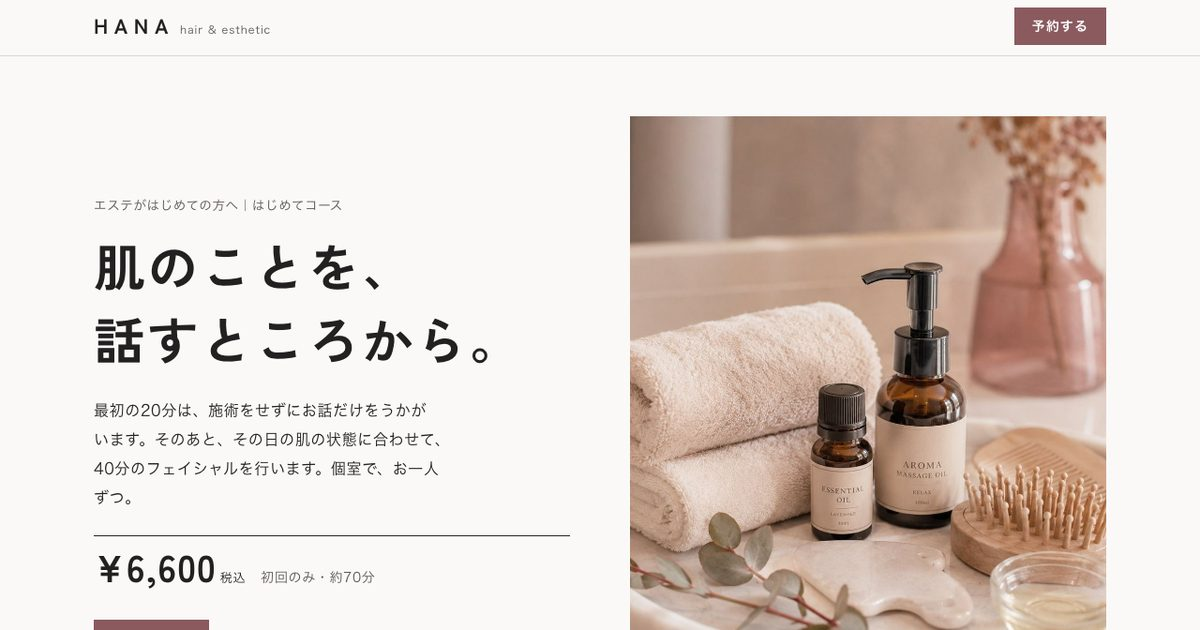
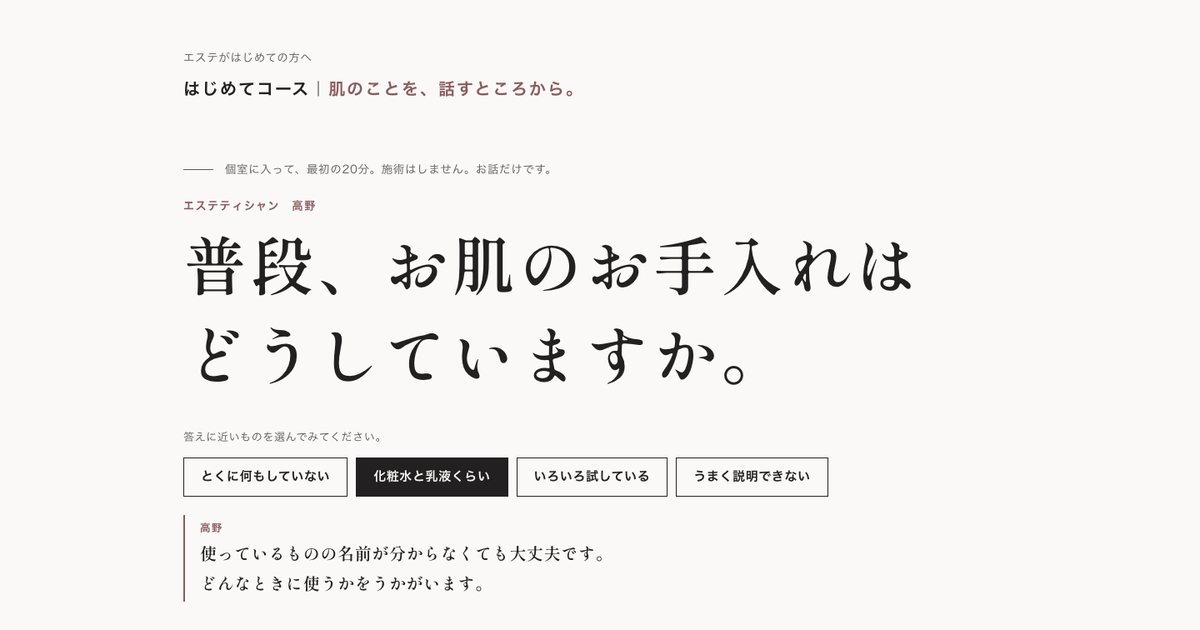
Add files via upload

diff --git a/samples/salon.html b/samples/salon.html
@@ -19,8 +19,9 @@
 <meta property="og:image:height" content="630">
 <meta property="og:locale" content="ja_JP">
 <meta name="twitter:card" content="summary_large_image">
-<!-- 2026-11-09 作り直し。生成元：HP制作/lp_salon.py（HPとCSSを共有） -->
-<link rel="preconnect" href="https://fonts.googleapis.com"><link rel="preconnect" href="https://fonts.gstatic.com" crossorigin><link rel="stylesheet" href="https://fonts.googleapis.com/css2?family=Shippori+Mincho+B1:wght@600;700&amp;display=swap&amp;text=%26%2C.0123456789%3A%3BAHNacehimprst%C2%A5%E3%80%81%E3%80%82%E3%80%9C%E3%81%82%E3%81%84%E3%81%8A%E3%81%8B%E3%81%8C%E3%81%8D%E3%81%8F%E3%81%93%E3%81%94%E3%81%95%E3%81%97%E3%81%98%E3%81%99%E3%81%9A%E3%81%9B%E3%81%9D%E3%81%9F%E3%81%A0%E3%81%A4%E3%81%A6%E3%81%A7%E3%81%A8%E3%81%AA%E3%81%AB%E3%81%AE%E3%81%AF%E3%81%BB%E3%81%BE%E3%81%BF%E3%82%81%E3%82%84%E3%82%88%E3%82%89%E3%82%8B%E3%82%8C%E3%82%8D%E3%82%92%E3%82%93%E3%82%A3%E3%82%A4%E3%82%A7%E3%82%A8%E3%82%B3%E3%82%B5%E3%82%B7%E3%82%B9%E3%83%86%E3%83%95%E3%83%A3%E3%83%AB%E3%83%AD%E3%83%B3%E3%83%BB%E3%83%BC%E4%B8%8D%E4%BA%88%E5%85%A5%E5%86%86%E5%88%86%E5%88%9D%E5%88%B8%E5%8C%96%E5%90%8C%E5%93%81%E5%95%86%E5%95%8F%E5%9B%9E%E5%A0%B1%E5%A0%B4%E5%AE%89%E5%AE%A2%E5%B0%91%E5%BD%93%E5%BE%97%E6%80%A5%E6%83%85%E6%84%8F%E6%89%8B%E6%8B%85%E6%95%B0%E6%96%99%E6%96%B9%E6%96%BD%E6%99%82%E6%9D%9F%E6%A7%98%E6%AC%A1%E7%9B%B8%E7%A8%8E%E7%B2%A7%E7%B4%84%E7%B4%8D%E8%82%8C%E8%8B%A6%E8%A1%93%E8%A9%B1%E8%AB%87%E8%B3%AA%E8%BE%BC%E9%87%8E%E9%87%91%E9%96%93%E9%AB%98%EF%BC%88%EF%BC%89" media="print" onload="this.media='all'"><noscript><link rel="stylesheet" href="https://fonts.googleapis.com/css2?family=Shippori+Mincho+B1:wght@600;700&amp;display=swap&amp;text=%26%2C.0123456789%3A%3BAHNacehimprst%C2%A5%E3%80%81%E3%80%82%E3%80%9C%E3%81%82%E3%81%84%E3%81%8A%E3%81%8B%E3%81%8C%E3%81%8D%E3%81%8F%E3%81%93%E3%81%94%E3%81%95%E3%81%97%E3%81%98%E3%81%99%E3%81%9A%E3%81%9B%E3%81%9D%E3%81%9F%E3%81%A0%E3%81%A4%E3%81%A6%E3%81%A7%E3%81%A8%E3%81%AA%E3%81%AB%E3%81%AE%E3%81%AF%E3%81%BB%E3%81%BE%E3%81%BF%E3%82%81%E3%82%84%E3%82%88%E3%82%89%E3%82%8B%E3%82%8C%E3%82%8D%E3%82%92%E3%82%93%E3%82%A3%E3%82%A4%E3%82%A7%E3%82%A8%E3%82%B3%E3%82%B5%E3%82%B7%E3%82%B9%E3%83%86%E3%83%95%E3%83%A3%E3%83%AB%E3%83%AD%E3%83%B3%E3%83%BB%E3%83%BC%E4%B8%8D%E4%BA%88%E5%85%A5%E5%86%86%E5%88%86%E5%88%9D%E5%88%B8%E5%8C%96%E5%90%8C%E5%93%81%E5%95%86%E5%95%8F%E5%9B%9E%E5%A0%B1%E5%A0%B4%E5%AE%89%E5%AE%A2%E5%B0%91%E5%BD%93%E5%BE%97%E6%80%A5%E6%83%85%E6%84%8F%E6%89%8B%E6%8B%85%E6%95%B0%E6%96%99%E6%96%B9%E6%96%BD%E6%99%82%E6%9D%9F%E6%A7%98%E6%AC%A1%E7%9B%B8%E7%A8%8E%E7%B2%A7%E7%B4%84%E7%B4%8D%E8%82%8C%E8%8B%A6%E8%A1%93%E8%A9%B1%E8%AB%87%E8%B3%AA%E8%BE%BC%E9%87%8E%E9%87%91%E9%96%93%E9%AB%98%EF%BC%88%EF%BC%89"></noscript>
+<!-- 2026-11-15 作り直し（案A 最初の20分を、ページで体験する）。生成元：HP制作/lp_salon.py・hana_lp_top.py（HPとCSSを共有） -->
+<link rel="preconnect" href="https://fonts.googleapis.com"><link rel="preconnect" href="https://fonts.gstatic.com" crossorigin><link rel="stylesheet" href="https://fonts.googleapis.com/css2?family=Shippori+Mincho+B1:wght@600;700&amp;display=swap&amp;text=%26%2C.0123456789%3A%3BAHNacehimprst%C2%A5%E3%80%81%E3%80%82%E3%80%9C%E3%81%82%E3%81%84%E3%81%86%E3%81%88%E3%81%8A%E3%81%8B%E3%81%8C%E3%81%8D%E3%81%8F%E3%81%91%E3%81%93%E3%81%94%E3%81%95%E3%81%97%E3%81%98%E3%81%99%E3%81%9B%E3%81%9D%E3%81%9F%E3%81%A0%E3%81%A3%E3%81%A4%E3%81%A6%E3%81%A7%E3%81%A8%E3%81%A9%E3%81%AA%E3%81%AB%E3%81%AD%E3%81%AE%E3%81%AF%E3%81%B0%E3%81%B5%E3%81%BE%E3%81%BF%E3%82%81%E3%82%82%E3%82%84%E3%82%88%E3%82%89%E3%82%8A%E3%82%8B%E3%82%8C%E3%82%8D%E3%82%8F%E3%82%92%E3%82%93%E3%82%A3%E3%82%A4%E3%82%A7%E3%82%A8%E3%82%AF%E3%82%B0%E3%82%B3%E3%82%B5%E3%82%B7%E3%82%B8%E3%82%B9%E3%83%83%E3%83%86%E3%83%91%E3%83%95%E3%83%9E%E3%83%A3%E3%83%AB%E3%83%AC%E3%83%AD%E3%83%B3%E3%83%BB%E3%83%BC%E4%B8%80%E4%B8%88%E4%B9%B3%E4%BA%88%E4%BB%8A%E4%BD%95%E4%BD%BF%E5%85%A5%E5%86%85%E5%86%86%E5%88%86%E5%89%8D%E5%8C%96%E5%90%88%E5%90%8D%E5%93%81%E5%95%8F%E5%A0%B1%E5%A4%A7%E5%A4%AB%E5%AD%90%E5%AE%85%E5%AE%B9%E5%BD%93%E5%BE%97%E6%83%85%E6%84%8F%E6%89%8B%E6%8B%85%E6%95%99%E6%96%99%E6%97%A5%E6%98%8E%E6%99%AE%E6%9C%80%E6%9D%9F%E6%A7%98%E6%AC%A1%E6%AE%B5%E6%B0%97%E6%B0%B4%E6%B1%BA%E6%B6%B2%E7%95%AA%E7%A8%8E%E7%B2%A7%E7%B4%84%E8%82%8C%E8%87%AA%E8%A1%8C%E8%A6%8B%E8%A9%A6%E8%A9%B1%E8%AA%AC%E8%B3%AA%E8%BE%BC%E8%BF%91%E9%81%8E%E9%81%BF%E9%87%8E%E9%87%91%E9%A0%86%E9%AB%98%EF%BC%88%EF%BC%89%EF%BD%9C" media="print" onload="this.media='all'"><noscript><link rel="stylesheet" href="https://fonts.googleapis.com/css2?family=Shippori+Mincho+B1:wght@600;700&amp;display=swap&amp;text=%26%2C.0123456789%3A%3BAHNacehimprst%C2%A5%E3%80%81%E3%80%82%E3%80%9C%E3%81%82%E3%81%84%E3%81%86%E3%81%88%E3%81%8A%E3%81%8B%E3%81%8C%E3%81%8D%E3%81%8F%E3%81%91%E3%81%93%E3%81%94%E3%81%95%E3%81%97%E3%81%98%E3%81%99%E3%81%9B%E3%81%9D%E3%81%9F%E3%81%A0%E3%81%A3%E3%81%A4%E3%81%A6%E3%81%A7%E3%81%A8%E3%81%A9%E3%81%AA%E3%81%AB%E3%81%AD%E3%81%AE%E3%81%AF%E3%81%B0%E3%81%B5%E3%81%BE%E3%81%BF%E3%82%81%E3%82%82%E3%82%84%E3%82%88%E3%82%89%E3%82%8A%E3%82%8B%E3%82%8C%E3%82%8D%E3%82%8F%E3%82%92%E3%82%93%E3%82%A3%E3%82%A4%E3%82%A7%E3%82%A8%E3%82%AF%E3%82%B0%E3%82%B3%E3%82%B5%E3%82%B7%E3%82%B8%E3%82%B9%E3%83%83%E3%83%86%E3%83%91%E3%83%95%E3%83%9E%E3%83%A3%E3%83%AB%E3%83%AC%E3%83%AD%E3%83%B3%E3%83%BB%E3%83%BC%E4%B8%80%E4%B8%88%E4%B9%B3%E4%BA%88%E4%BB%8A%E4%BD%95%E4%BD%BF%E5%85%A5%E5%86%85%E5%86%86%E5%88%86%E5%89%8D%E5%8C%96%E5%90%88%E5%90%8D%E5%93%81%E5%95%8F%E5%A0%B1%E5%A4%A7%E5%A4%AB%E5%AD%90%E5%AE%85%E5%AE%B9%E5%BD%93%E5%BE%97%E6%83%85%E6%84%8F%E6%89%8B%E6%8B%85%E6%95%99%E6%96%99%E6%97%A5%E6%98%8E%E6%99%AE%E6%9C%80%E6%9D%9F%E6%A7%98%E6%AC%A1%E6%AE%B5%E6%B0%97%E6%B0%B4%E6%B1%BA%E6%B6%B2%E7%95%AA%E7%A8%8E%E7%B2%A7%E7%B4%84%E8%82%8C%E8%87%AA%E8%A1%8C%E8%A6%8B%E8%A9%A6%E8%A9%B1%E8%AA%AC%E8%B3%AA%E8%BE%BC%E8%BF%91%E9%81%8E%E9%81%BF%E9%87%8E%E9%87%91%E9%A0%86%E9%AB%98%EF%BC%88%EF%BC%89%EF%BD%9C"></noscript>
+<script>document.documentElement.classList.add('js');</script>
 <style>
 * { box-sizing: border-box; margin: 0; padding: 0; }
 html { scroll-behavior: smooth; -webkit-text-size-adjust: 100%; }
@@ -69,7 +70,7 @@ ul, ol { list-style: none; }
 
 /* トップ：うしろ姿を全幅に広げ、左側を地の色へなじませる。境目に「手鏡」（2026-11-13 案A・17章 K01／K02） */
 body:has(.fv) .site-nav { background: #ECE8E3; border-bottom-color: transparent; }
-.fv { position: relative; min-height: calc(100svh - 66px); max-height: 900px; background: #ECE8E3; display: grid; grid-template-columns: 45% 55%; overflow: hidden; }
+.fv { position: relative; min-height: min(calc(100svh - 66px), 900px); max-height: 900px; background: #ECE8E3; display: grid; grid-template-columns: 45% 55%; overflow: hidden; }
 .fv-photo { position: absolute; top: 0; bottom: 0; right: 0; width: 74%; margin: 0; overflow: hidden; -webkit-mask-image: linear-gradient(90deg, transparent 0, rgba(0,0,0,.35) 12%, #000 30%); mask-image: linear-gradient(90deg, transparent 0, rgba(0,0,0,.35) 12%, #000 30%); }
 @media (max-width: 1180px) { .fv-photo { width: 66%; } }
 .fv-photo img { position: absolute; inset: 0; width: 100%; height: 100%; object-fit: cover; object-position: 50% 60%; }
@@ -132,6 +133,8 @@ body:has(.fv) .site-nav { background: #ECE8E3; border-bottom-color: transparent;
   .work-side, .work.wide .work-side { padding-top: 0; }
   .work-mirror, .work.rev .work-mirror { margin: -150px 12px 0 auto; width: 120px; position: relative; z-index: 2; display: block; }
   .work-mirror .glass { width: 120px; }
+  .work.wide .work-mirror { width: 92px; margin-top: -112px; }
+  .work.wide .work-mirror .glass { width: 92px; padding: 5px; }
   .work-mirror figcaption { display: none; }
   .work-text, .work.rev .work-text { padding: 24px 0 0; }
 }
@@ -243,6 +246,94 @@ footer .sample-note { margin-top: 16px; font-size: 12px; opacity: 0.8; max-width
   body { padding-bottom: 72px; }
 }
 @media (prefers-reduced-motion: reduce) { .dock { transition: none; } }
+
+/* ===== 最初の画面：最初の質問 ===== */
+.talk-fv { min-height: calc(100vh - 96px); display: grid; align-content: center; padding: 56px 0 64px; }
+.talk-fv .kind { font-size: 13.5px; color: #5C5752; }
+.talk-fv h1 { font-family: "Hiragino Kaku Gothic ProN", "Hiragino Sans", "Yu Gothic", "YuGothic", "Meiryo", "Noto Sans JP", sans-serif; font-size: clamp(17px, 1.5vw, 20px); font-weight: 700; letter-spacing: 0.1em; line-height: 1.7; margin-top: 6px; }
+.talk-fv h1 em { font-style: normal; color: #8A5A5F; }
+.scene-note { margin-top: clamp(36px, 7vh, 72px); display: flex; align-items: center; gap: 14px; font-size: 13.5px; color: #5C5752; }
+.scene-note::before { content: ""; flex: none; width: 36px; border-top: 1px solid #5C5752; }
+.speaker { margin-top: 18px; font-size: 13px; font-weight: 700; letter-spacing: 0.12em; color: #8A5A5F; }
+.q-big { font-family: "Shippori Mincho B1", "Hiragino Mincho ProN", "Yu Mincho", serif; font-weight: 600; font-size: clamp(36px, 5.6vw, 76px); line-height: 1.42; letter-spacing: 0.06em; margin-top: 6px; }
+.answers-label { margin-top: 30px; font-size: 13px; color: #5C5752; }
+.answers { margin-top: 12px; display: flex; flex-wrap: wrap; gap: 10px; }
+.answers button { font: 600 15px/1.5 "Hiragino Kaku Gothic ProN", "Hiragino Sans", "Yu Gothic", "YuGothic", "Meiryo", "Noto Sans JP", sans-serif; letter-spacing: 0.04em; color: #222020; background: transparent; border: 1px solid #222020; padding: 11px 20px; cursor: pointer; }
+.answers button:hover { background: #ECE8E3; }
+.answers button[aria-pressed="true"] { background: #222020; color: #FAF9F7; }
+html:not(.js) .answers, html:not(.js) .answers-label { display: none; }
+.reply { margin-top: 22px; max-width: 34em; border-left: 2px solid #8A5A5F; padding: 4px 0 4px 18px; }
+.reply .rw { display: block; font-size: 12.5px; font-weight: 700; color: #8A5A5F; letter-spacing: 0.1em; }
+.reply .rt { font-family: "Shippori Mincho B1", "Hiragino Mincho ProN", "Yu Mincho", serif; font-size: clamp(17px, 1.6vw, 20px); line-height: 1.8; }
+html.js .reply-list { display: none; }
+.reply-list { margin-top: 26px; display: grid; gap: 10px; max-width: 40em; font-size: 14.5px; }
+.reply-list b { margin-right: 0.6em; }
+.offer { margin-top: clamp(40px, 7vh, 72px); display: flex; flex-wrap: wrap; align-items: center; gap: 14px 30px; padding-top: 18px; border-top: 1px solid #222020; }
+.offer .yen { font-family: "Shippori Mincho B1", "Hiragino Mincho ProN", "Yu Mincho", serif; font-weight: 700; font-size: 34px; line-height: 1; }
+.offer .yen small { font-family: "Hiragino Kaku Gothic ProN", "Hiragino Sans", "Yu Gothic", "YuGothic", "Meiryo", "Noto Sans JP", sans-serif; font-weight: 400; font-size: 13px; margin-left: 4px; }
+.offer p { font-size: 14px; color: #5C5752; }
+
+/* ===== 70分の目盛り ===== */
+.course { border-top: 1px solid #222020; }
+.course > .wrap { display: grid; grid-template-columns: 200px minmax(0, 1fr); gap: 0 56px; }
+.meter { position: sticky; top: 92px; align-self: start; padding: 40px 0; }
+.meter ol { border-left: 1px solid rgba(34,32,32,0.16); list-style: none; }
+.meter li { position: relative; padding: 0 0 26px 20px; color: #5C5752; }
+.meter li::before { content: ""; position: absolute; left: -1px; top: 0.35em; height: 1.6em; border-left: 3px solid transparent; }
+.meter li.on { color: #222020; }
+.meter li.on::before { border-color: #8A5A5F; }
+.meter a { text-decoration: none; display: block; }
+.meter .mm { display: block; font-family: "Shippori Mincho B1", "Hiragino Mincho ProN", "Yu Mincho", serif; font-weight: 700; font-size: 30px; line-height: 1.1; letter-spacing: 0.02em; }
+.meter .mm small { font-size: 14px; margin-left: 2px; }
+.meter .mw { display: block; font-size: 13.5px; font-weight: 700; margin-top: 4px; }
+.meter .ms { display: block; font-size: 12.5px; }
+.part { padding: 72px 0 56px; }
+.part + .part { border-top: 1px solid rgba(34,32,32,0.16); }
+.part-k { font-size: 13px; font-weight: 700; letter-spacing: 0.14em; color: #8A5A5F; }
+.part h2 { font-size: clamp(26px, 3vw, 38px); line-height: 1.5; margin-top: 8px; }
+.part-lede { margin-top: 14px; color: #5C5752; max-width: 34em; }
+.tlines { margin-top: 44px; list-style: none; }
+.tline { padding: 34px 0 36px; border-top: 1px solid rgba(34,32,32,0.16); display: grid; grid-template-columns: 4.5em minmax(0, 1fr); gap: 0 22px; }
+.tline .tn { font-family: "Shippori Mincho B1", "Hiragino Mincho ProN", "Yu Mincho", serif; font-weight: 700; font-size: 15px; color: #5C5752; padding-top: 0.5em; letter-spacing: 0.08em; }
+.tline .say { font-family: "Shippori Mincho B1", "Hiragino Mincho ProN", "Yu Mincho", serif; font-weight: 600; font-size: clamp(22px, 2.5vw, 31px); line-height: 1.65; letter-spacing: 0.05em; }
+.tline .why { margin-top: 12px; font-size: 14.5px; color: #5C5752; max-width: 36em; }
+.tline.promise { background: #ECE8E3; border-top: 0; padding-left: 24px; padding-right: 24px; margin: 0 -24px; }
+.tline.promise .say { color: #6F4549; }
+.handover { margin-top: 30px; padding-top: 22px; border-top: 1px solid #222020; font-size: 15px; }
+.handover b { color: #8A5A5F; }
+/* 40分：個室の写真と、施術の順番 */
+.room40 { margin: 36px 0 0; }
+.room40 img { width: 100%; aspect-ratio: 16 / 9; object-fit: cover; }
+.room40 figcaption { margin-top: 8px; font-size: 12.5px; color: #5C5752; }
+.steps40 { margin-top: 30px; display: grid; grid-template-columns: repeat(3, minmax(0, 1fr)); border-top: 1px solid #222020; list-style: none; }
+.steps40 li { padding: 18px 20px 4px 0; }
+.steps40 li + li { padding-left: 20px; border-left: 1px solid rgba(34,32,32,0.16); }
+.steps40 b { display: block; font-family: "Shippori Mincho B1", "Hiragino Mincho ProN", "Yu Mincho", serif; font-size: 19px; }
+.steps40 p { margin-top: 6px; font-size: 14.5px; color: #5C5752; }
+.quiet { margin-top: 28px; font-size: 15px; max-width: 36em; }
+@media (max-width: 900px) {
+  .talk-fv { min-height: 0; padding: 36px 0 44px; }
+  .q-big { font-size: clamp(30px, 8.6vw, 40px); }
+  .answers button { flex: 1 1 100%; text-align: left; }
+  .offer .btn { flex: 1 1 100%; }
+  .course > .wrap { grid-template-columns: 1fr; }
+  .meter { top: 62px; z-index: 5; background: #FAF9F7; padding: 10px 20px 8px; margin: 0 -20px; border-bottom: 1px solid rgba(34,32,32,0.16); }
+  .meter ol { display: grid; grid-template-columns: repeat(3, 1fr); border-left: 0; }
+  .meter li { padding: 0 6px 0 0; }
+  .meter li::before { left: 0; top: auto; bottom: -9px; height: 0; width: 100%; border-left: 0; border-bottom: 3px solid transparent; }
+  .meter li.on::before { border-color: #8A5A5F; }
+  .meter .mm { font-size: 20px; }
+  .meter .mw { font-size: 12px; margin-top: 0; }
+  .meter .ms { display: none; }
+  .part { padding: 44px 0 36px; }
+  .tline { grid-template-columns: 1fr; padding: 26px 0 28px; }
+  .tline .tn { padding-top: 0; }
+  .tline.promise { margin: 0 -20px; padding-left: 20px; padding-right: 20px; }
+  .room40 { margin-left: -20px; margin-right: -20px; }
+  .room40 figcaption { padding: 0 20px; }
+  .steps40 { grid-template-columns: 1fr; }
+  .steps40 li, .steps40 li + li { padding: 14px 0; border-left: 0; border-bottom: 1px solid rgba(34,32,32,0.16); }
+}
 </style>
 </head>
 <body>
@@ -253,45 +344,74 @@ footer .sample-note { margin-top: 16px; font-size: 12px; opacity: 0.8; max-width
   <a class="btn" href="#reserve">予約する</a>
 </div></header>
 <main>
-<section class="lp-fv" aria-labelledby="fv-h"><div class="wrap">
+
+<section class="talk-fv" aria-labelledby="fv-h"><div class="wrap">
+  <p class="kind">エステがはじめての方へ</p>
+  <h1 id="fv-h">はじめてコース｜<em>肌のことを、話すところから。</em></h1>
+  <p class="scene-note">個室に入って、最初の20分。施術はしません。お話だけです。</p>
+  <p class="speaker">エステティシャン　高野</p>
+  <p class="q-big"><span class="nb">普段、お肌のお手入れは</span><br><span class="nb">どうしていますか。</span></p>
+  <p class="answers-label">答えに近いものを選んでみてください。</p>
+  <div class="answers" role="group" aria-label="答えを選ぶ">
+    <button type="button" data-r="0" aria-pressed="false">とくに何もしていない</button>
+    <button type="button" data-r="1" aria-pressed="false">化粧水と乳液くらい</button>
+    <button type="button" data-r="2" aria-pressed="false">いろいろ試している</button>
+    <button type="button" data-r="3" aria-pressed="false">うまく説明できない</button>
+  </div>
+  <div class="reply" id="reply" aria-live="polite" hidden><span class="rw">高野</span><p class="rt"></p></div>
+  <ul class="reply-list">
+    <li><b>とくに何もしていない</b><span>それで大丈夫です。今の肌の様子を見てから、今日の内容を決めます。</span></li>
+    <li><b>化粧水と乳液くらい</b><span>使っているものの名前が分からなくても大丈夫です。どんなときに使うかをうかがいます。</span></li>
+    <li><b>いろいろ試している</b><span>合ったもの、合わなかったものを教えてください。今日のフェイシャルで避けることを決めます。</span></li>
+    <li><b>うまく説明できない</b><span>うまく説明できなくて大丈夫です。普段の一日の様子から、うかがっていきます。</span></li>
+  </ul>
+  <div class="offer">
+    <span class="yen">¥6,600<small>税込</small></span><p>初回のみ・約70分（お話20分＋フェイシャル40分＋お手入れのお話10分）</p>
+    <a class="btn" href="#reserve">予約する</a>
+    <a class="more" href="#p20">続きの質問を見る</a>
+  </div>
+</div></section>
+
+<section class="course" id="hour" aria-label="はじめてコースの70分"><div class="wrap">
+  <nav class="meter" aria-label="70分の流れ"><ol>
+    <li class="on" data-for="p20"><a href="#p20"><span class="mm">20<small>分</small></span><span class="mw">話す</span><span class="ms">施術はしません</span></a></li>
+    <li data-for="p40"><a href="#p40"><span class="mm">40<small>分</small></span><span class="mw">整える</span><span class="ms">フェイシャル</span></a></li>
+    <li data-for="p10"><a href="#p10"><span class="mm">10<small>分</small></span><span class="mw">帰る前に</span><span class="ms">お手入れのお話</span></a></li>
+  </ol></nav>
   <div>
-    <p class="fv-kind">エステがはじめての方へ｜はじめてコース</p>
-    <h1 id="fv-h"><span class="nb">肌のことを、</span><span class="nb">話すところから。</span></h1>
-    <p class="fv-lede">最初の20分は、施術をせずにお話だけをうかがいます。そのあと、その日の肌の状態に合わせて、40分のフェイシャルを行います。個室で、お一人ずつ。</p>
-    <div class="price"><span class="yen">¥6,600<small>税込</small></span><p>初回のみ・約70分</p></div>
-    <div class="actions"><a class="btn" href="#reserve">予約する</a><a class="more" href="#hour">70分の流れを見る</a></div>
-  </div>
-  <figure><img src="img/lp-salon-towel.jpg" width="1000" height="1250" alt="白い台の上にたたんだタオルと、化粧品の瓶" fetchpriority="high"><figcaption>※写真はイメージです（画像生成AIで作成）。</figcaption></figure>
-</div></section>
+    <section class="part" id="p20" aria-labelledby="h20">
+      <p class="part-k">最初の20分　話す</p>
+      <h2 id="h20"><span class="nb">うかがうのは、</span><span class="nb">たとえばこんなことです。</span></h2>
+      <p class="part-lede">決まった質問票はありません。答えにくいことは、飛ばしてかまいません。話したくないことは、話さなくて大丈夫です。</p>
+      <ol class="tlines">
+        <li class="tline"><span class="tn">1</span><div><p class="say">最近、気になっているところはありますか。</p><p class="why">場所や言葉がはっきりしなくても大丈夫です。「朝、つっぱる気がする」くらいの話から、うかがいます。</p></div></li>
+        <li class="tline"><span class="tn">2</span><div><p class="say">肌に合わなかったものは、ありますか。</p><p class="why">今日のフェイシャルで使うものを決めるためにうかがいます。肌が敏感な方は、ここで教えてください。</p></div></li>
+        <li class="tline"><span class="tn">3</span><div><p class="say">今日は、どんなふうに過ごしたいですか。</p><p class="why">しっかり説明を聞きたい方も、静かに目を閉じていたい方もいます。施術中の話しかけ方も、ここで決めます。</p></div></li>
+        <li class="tline promise"><span class="tn">約束</span><div><p class="say">今日、次の予約や化粧品をおすすめすることはありません。</p><p class="why">また来たいと思ったときに、ご連絡ください。</p></div></li>
+        <li class="tline"><span class="tn">4</span><div><p class="say">これから行うことを、順番にご説明しますね。</p><p class="why">クレンジング、マッサージ、パックの順に、何をするかをお話しします。気になる点がないか確かめてから始めます。</p></div></li>
+      </ol>
+      <p class="handover">ここまでで、約20分。<b>このあと、40分のフェイシャルに移ります。</b></p>
+    </section>
 
-<section class="block" id="hour" aria-labelledby="hr-h"><div class="wrap">
-  <h2 id="hr-h" style="font-size:clamp(24px,3vw,34px);margin-bottom:24px;">はじめてコースの70分</h2>
-  <div class="hour">
-    <div class="first"><span class="hf">20<small>分</small></span><b>お話だけの時間</b><p>普段のお手入れや、気になっていることをうかがいます。話したくないことは、話さなくて大丈夫です。</p></div>
-    <div><span class="hf">40<small>分</small></span><b>フェイシャル</b><p>クレンジングからマッサージ、パックまで。内容は、お話のあとにご説明してから始めます。</p></div>
-    <div><span class="hf">10<small>分</small></span><b>お手入れのお話</b><p>ご自宅で気をつけるとよいことを。</p></div>
-  </div>
-  <p class="small" style="margin-top:12px;">合計 約70分。個室で行います。</p>
-</div></section>
+    <section class="part" id="p40" aria-labelledby="h40">
+      <p class="part-k">つづく40分　整える</p>
+      <h2 id="h40"><span class="nb">お話で決めた内容で、</span><span class="nb">フェイシャルを行います。</span></h2>
+      <figure class="room40"><img src="img/lp-salon-room.jpg" width="1254" height="840" alt="施術の台に置いた美顔器とタオル。奥に施術用のベッドがある" loading="lazy"><figcaption>エステ用の個室は1室。施術中は、ほかのお客様を入れません。※写真はイメージです（画像生成AIで作成）。</figcaption></figure>
+      <ol class="steps40">
+        <li><b>クレンジング</b><p>メイクをしたままお越しください。メイク落としから行います。</p></li>
+        <li><b>マッサージ</b><p>力の強さは、途中でも遠慮なくお伝えください。</p></li>
+        <li><b>パック</b><p>お話でうかがった肌の様子に合わせて選びます。</p></li>
+      </ol>
+      <p class="quiet">話しかけるか、静かにしておくかは、最初の20分でうかがったとおりにします。</p>
+    </section>
 
-<section class="block" aria-labelledby="fy-h"><div class="wrap block-grid">
-  <h2 id="fy-h">こんな方に</h2>
-  <div>
-    <ol class="rows">
-      <li class="row"><span class="num">1</span><div><h3>エステは初めてで、少し不安</h3><p>何をされるのか分からないまま始まるのが、心配な方に。</p></div></li>
-      <li class="row"><span class="num">2</span><div><h3>肌のことを、急かされずに相談したい</h3><p>うまく説明できなくても大丈夫です。普段の様子からうかがいます。</p></div></li>
-      <li class="row"><span class="num">3</span><div><h3>回数券や化粧品をすすめられるのが苦手</h3><p>はじめてコースのあとに、ご案内はしません。</p></div></li>
-    </ol>
+    <section class="part" id="p10" aria-labelledby="h10">
+      <p class="part-k">帰る前の10分　お手入れのお話</p>
+      <h2 id="h10"><span class="nb">ご自宅で気をつけると</span><span class="nb">よいことを、お話しします。</span></h2>
+      <p class="part-lede">今日の肌の様子をふまえて、普段のお手入れで気をつけるとよいことをお伝えします。パウダールームで、お化粧直しの時間もゆっくりお使いください。</p>
+      <p class="handover">合計　約70分。<b>はじめてコース ¥6,600（税込・初回のみ）</b></p>
+    </section>
   </div>
-</div></section>
-
-<section class="block" aria-labelledby="pm-h"><div class="wrap block-grid">
-  <h2 id="pm-h">3つの約束</h2>
-  <ol class="rows">
-    <li class="row"><span class="num">1</span><div><h3>その場で、次の予約や商品をすすめません</h3><p>次も来たいと思ったときに、ご連絡ください。</p></div></li>
-    <li class="row"><span class="num">2</span><div><h3>施術は、納得していただいてから</h3><p>何をどの順番で行うのかをご説明し、気になる点がないか確かめてから始めます。</p></div></li>
-    <li class="row"><span class="num">3</span><div><h3>同じ時間に、ほかのお客様を入れません</h3><p>完全予約制で、施術中はお一人だけ。周りを気にせず過ごせます。</p></div></li>
-  </ol>
 </div></section>
 
 <section class="block" aria-labelledby="es-h"><div class="wrap block-grid">
@@ -361,8 +481,31 @@ footer .sample-note { margin-top: 16px; font-size: 12px; opacity: 0.8; max-width
     ents.forEach(function (en) { seen[en.target.id || 'fv'] = en.isIntersecting; });
     dock.classList.toggle('hide', !!(seen.fv || seen.reserve));
   });
-  io.observe(document.querySelector('.lp-fv'));
+  io.observe(document.querySelector('.talk-fv'));
   io.observe(document.getElementById('reserve'));
+})();
+</script>
+
+<script>
+(function () {
+  var box = document.getElementById('reply'), out = box.querySelector('.rt');
+  var replies = [].map.call(document.querySelectorAll('.reply-list li span'), function (s) { return s.textContent; });
+  var bs = document.querySelectorAll('.answers button');
+  [].forEach.call(bs, function (b) {
+    b.addEventListener('click', function () {
+      [].forEach.call(bs, function (x) { x.setAttribute('aria-pressed', x === b ? 'true' : 'false'); });
+      out.textContent = replies[+b.getAttribute('data-r')];
+      box.hidden = false;
+    });
+  });
+  if (!('IntersectionObserver' in window)) return;
+  var items = document.querySelectorAll('.meter li');
+  var io = new IntersectionObserver(function (ents) {
+    ents.forEach(function (en) {
+      if (en.isIntersecting) [].forEach.call(items, function (li) { li.classList.toggle('on', li.getAttribute('data-for') === en.target.id); });
+    });
+  }, { rootMargin: '-40% 0px -55% 0px' });
+  ['p20', 'p40', 'p10'].forEach(function (id) { io.observe(document.getElementById(id)); });
 })();
 </script>
 </body>

diff --git a/lp.html b/lp.html
@@ -53,7 +53,7 @@
     <p>どのLPも、商品やサービスをひとつに絞り、「悩みへの共感 → 中身の説明 → 安心できる材料 → 申し込み」の流れで組み立てています。雰囲気の違う6種類を用意しました。ご依頼の際は、「このLPの雰囲気で」とお伝えください。画像をクリックすると、ページが開きます。</p>
     <div class="works">
       <a class="work" href="samples/bakery.html"><figure><img src="samples/img/lp-bakery.jpg" alt="焼き菓子店のLPのトップ画面" loading="lazy"><figcaption><span class="style-tag">あたたかみ・注文票</span><br><b>petite douceur</b><br>飲食｜どうぶつパンの予約BOX</figcaption></figure></a>
-      <a class="work" href="samples/salon.html"><figure><img src="samples/img/lp-salon.jpg" alt="美容サロンのLPのトップ画面（はじめてコースの案内）" loading="lazy"><figcaption><span class="style-tag">作品集・やわらか</span><br><b>HANA hair &amp; esthetic</b><br>美容｜はじめてコース</figcaption></figure></a>
+      <a class="work" href="samples/salon.html"><figure><img src="samples/img/lp-salon.jpg" alt="美容サロンのLPのトップ画面（エステティシャンの最初の質問を大きく置き、答えを選ぶと返事が出るデザイン）" loading="lazy"><figcaption><span class="style-tag">会話・やわらか</span><br><b>HANA hair &amp; esthetic</b><br>美容｜はじめてコース</figcaption></figure></a>
       <a class="work" href="samples/consult.html"><figure><img src="samples/img/lp-consult.jpg" alt="コンサルティング会社のLPのトップ画面（お金の流れの図があるデザイン）" loading="lazy"><figcaption><span class="style-tag">図解・明快</span><br><b>みちしるべ経営パートナーズ</b><br>コンサル｜資金繰りの無料相談</figcaption></figure></a>
       <a class="work" href="samples/natural.html"><figure><img src="samples/img/lp-natural.jpg" alt="石鹸ブランドのLPのトップ画面（全成分のラベルが重なるデザイン）" loading="lazy"><figcaption><span class="style-tag">ラベル・誠実</span><br><b>て、しごと</b><br>物販｜お試しミニセット</figcaption></figure></a>
       <a class="work" href="samples/coach.html"><figure><img src="samples/img/lp-coach.jpg" alt="コーチングのLPのトップ画面（迷いの言葉を事実と気持ちに分けるデザイン）" loading="lazy"><figcaption><span class="style-tag">言葉・整理</span><br><b>RE:START coaching</b><br>個人サービス｜体験セッション</figcaption></figure></a>

diff --git a/samples/index.html b/samples/index.html
@@ -109,11 +109,11 @@
         </div>
       </a>
       <a class="card" href="salon.html">
-        <div class="card-visual v-salon"><img src="img/lp-salon.jpg" alt="はじめてコースのLPのトップ画面"></div>
+        <div class="card-visual v-salon"><img src="img/lp-salon.jpg" alt="はじめてコースのLPのトップ画面（エステティシャンの最初の質問を大きく置き、答えを選ぶと返事が出るデザイン）"></div>
         <div class="card-body">
-          <span class="card-tag">作品集・やわらか</span>
+          <span class="card-tag">会話・やわらか</span>
           <h3>サロン「HANA hair &amp; esthetic」はじめてコース</h3>
-          <p>最初の20分はお話だけ。はじめてコースの70分を時間の帯で見せ、すすめない約束と一緒に予約へつなぐLP。</p>
+          <p>最初の20分はお話だけ。エステティシャンの質問を大きく置き、答えを選ぶと返事が出る。70分の流れを目盛りで追いながら、予約へつなぐLP。</p>
           <span class="go">サンプルを見る →</span>
         </div>
       </a>
